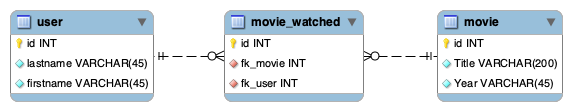
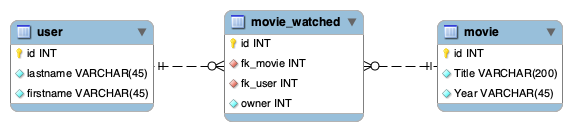
Doc

diff --git a/doc/2_implementation.md b/doc/2_implementation.md
@@ -30,3 +30,11 @@ User - WatchedMovie - Movie. These make it possible to keep a history of the mov
 ![entities.png](img/entities.png)
 
 `user` and `movie` have CRUD operations. `movie_watched` has `create`, `read` and `delete` operations.
+
+Due to lack of time, we have only protected the endpoints of the `movie_watched` entity. The owner represents the
+user id (user from the other API --> auth-server). So to perform any action on that entity we check that the owner
+corresponds to the user id stored in the JWT token. This token can be retrieved trough the `/session` endpoint of
+the user API.
+
+In our generated data in the movie_watched table, the owner is always `admin@admin.ch`. So you have to get his token
+in `/session` endpoint to be able to `GET` and `/DELETE/` watched movies. 
